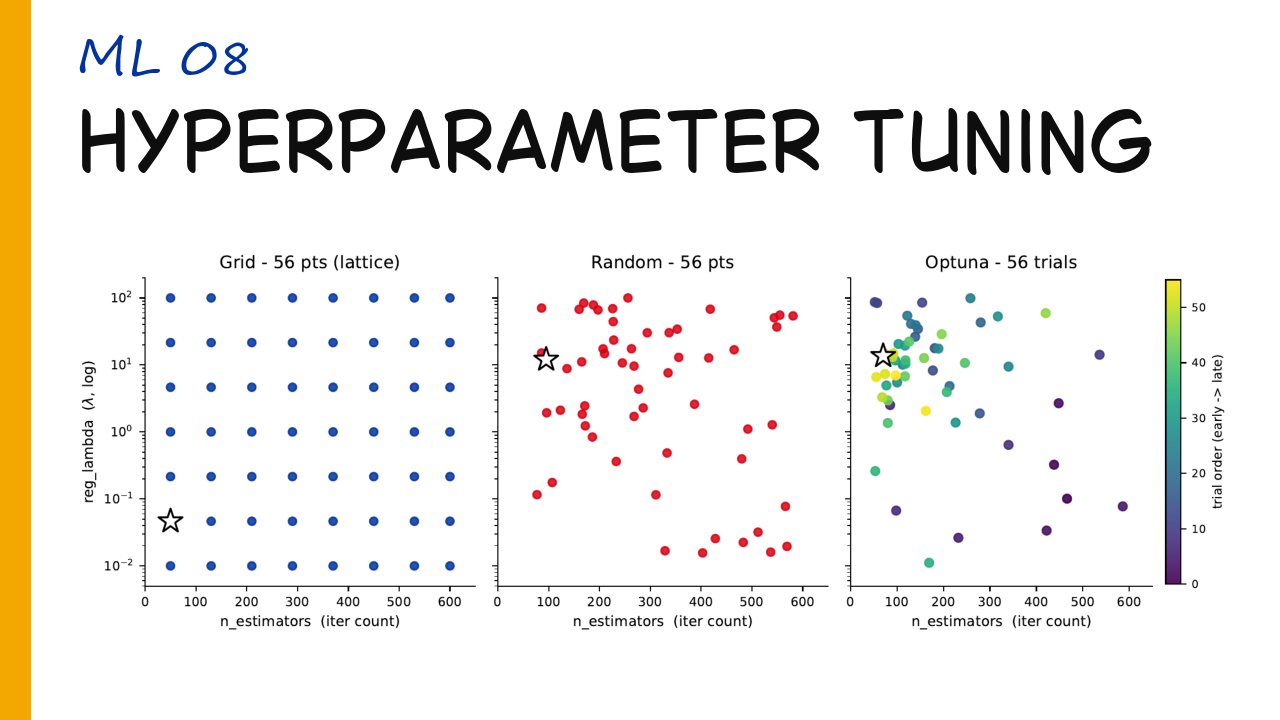
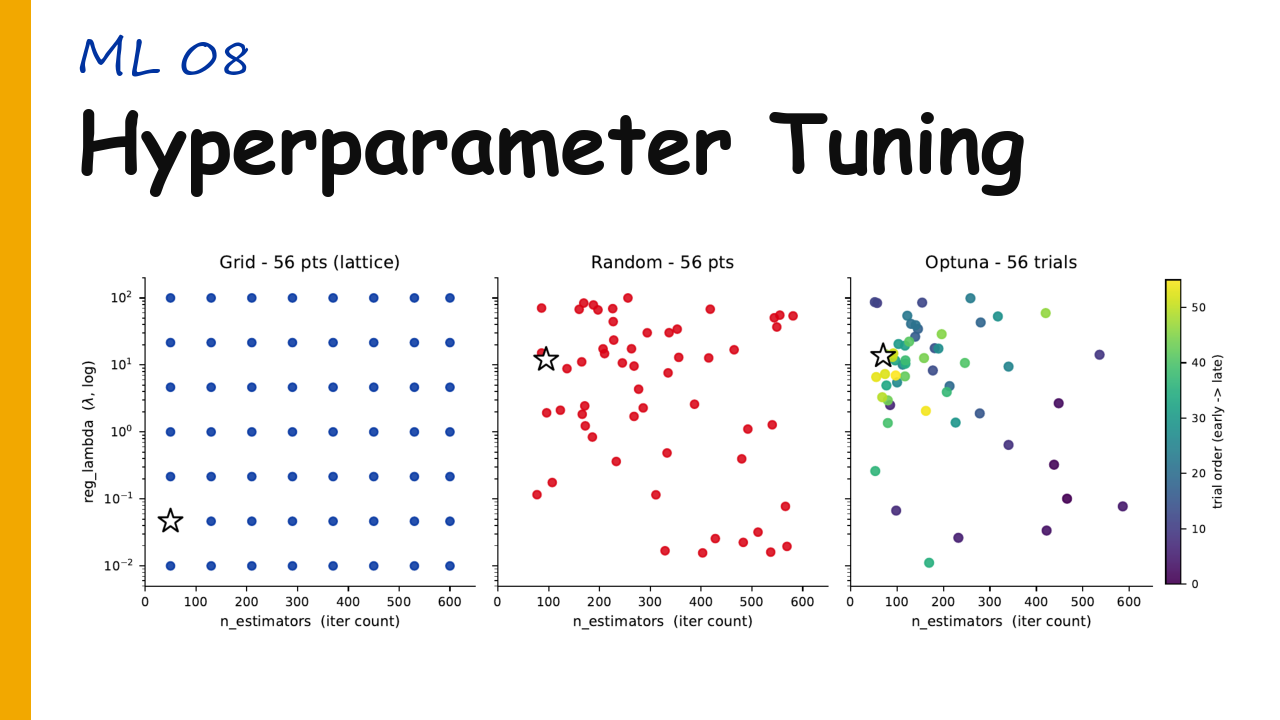
ML08 English title -> Comic Sans MS Bold (closer to Adamathuz)
User pick after font comparison; replaces Bubble Sans. title_latin now uses
LATIN_FONTKW (Comic Sans MS, bold).

Changed region(s): [[0.0625, 0.1528, 0.9062, 0.275]]

diff --git a/scripts/make_thumbnails_final.py b/scripts/make_thumbnails_final.py
@@ -80,16 +80,10 @@ font_manager.fontManager.addfont(str(ARM_FONT_PATH))
 ARM_PROPS = font_manager.FontProperties(fname=str(ARM_FONT_PATH))
 log.info(f"Loaded Armenian font: {ARM_PROPS.get_name()}")
 
-# Latin title font for English titles ("title_latin" lessons) — Bubble Sans,
-# same fonter.am foundry / bold-rounded look as Adamathuz. Falls back to a bold
-# sans if missing.
-LATIN_FONT_PATH = Path("fonts/bubble-sans/Bubble Sans 1.01.otf")
-if LATIN_FONT_PATH.exists():
-    font_manager.fontManager.addfont(str(LATIN_FONT_PATH))
-    LATIN_PROPS = font_manager.FontProperties(fname=str(LATIN_FONT_PATH))
-    log.info(f"Loaded Latin title font: {LATIN_PROPS.get_name()}")
-else:
-    LATIN_PROPS = font_manager.FontProperties(family="DejaVu Sans", weight="bold")
+# English titles ("title_latin" lessons) render in Comic Sans MS Bold — the
+# closest system font to Adamathuz's chunky rounded look (chosen over Bubble
+# Sans / Arial Rounded).
+LATIN_FONTKW = {"fontfamily": "Comic Sans MS", "fontweight": "bold"}
 
 
 def _strip(ax):
@@ -913,7 +907,7 @@ def render_thumbnail(lesson: dict) -> None:
     title = lesson["title"]
     tsize = lesson["title_size"]
     if lesson.get("title_latin"):
-        fontkw = {"fontproperties": LATIN_PROPS}
+        fontkw = dict(LATIN_FONTKW)
     else:
         fontkw = {"fontproperties": ARM_PROPS, "fontweight": "bold"}
     if "\n" not in title:

diff --git a/thumbnails/README.md b/thumbnails/README.md
@@ -55,8 +55,9 @@ When a chart has 3+ categorical colors, use this flag trio (project rule).
   it has **no Latin glyphs**. So Armenian titles and the badge must be pure
   Armenian; Latin (`sklearn`, `EDA`, `log`) goes in the panels, never an Adamathuz
   title. For an **English title**, set `"title_latin": True` on the lesson — it
-  renders in **Bubble Sans** (`fonts/bubble-sans/`, same fonter.am foundry as
-  Adamathuz — bold/rounded/uppercase) instead (e.g. ML08 "Hyperparameter Tuning").
+  renders in **Comic Sans MS Bold** (`LATIN_FONTKW`) instead — the closest
+  system font to Adamathuz's chunky rounded look (e.g. ML08 "Hyperparameter
+  Tuning"). Bubble Sans / Arial Rounded were tried and rejected.
 - **Segoe Script** (Windows system font) — the `ML NN` tag. Latin/handwritten.
 - **Sylfaen** (Windows system font) — mixed-case Armenian inside panels
   (panel titles, pipeline box labels). Use this whenever you need lowercase
@@ -108,7 +109,7 @@ rather than redrawing — pulled from the lecture decks in
 `fig/`, or `pdftoppm`-rendered + cropped slides for inline-TikZ plots). The
 generic `_draw_image_row()` places 1+ images, sizing panels by aspect so the row
 fills the band. Title sizing also supports a per-lesson `title_max` (raise the
-auto-grow cap, e.g. ML07=86) and `title_latin` (English title in Bubble Sans).
+auto-grow cap, e.g. ML07=86) and `title_latin` (English title in Comic Sans MS Bold).
 NOTE: when cropping metric plots (inline pgfplots, no figure files), crop from
 the **clean** compiled PDF (`07_regression_metrics.pdf`), NOT the annotated
 `_notes.pdf` — the latter has the lecturer's red ink baked in.
